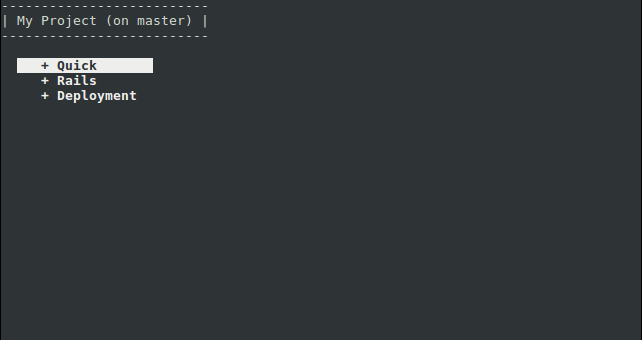
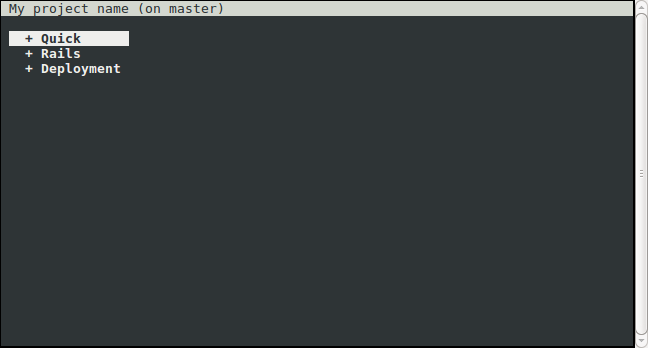
Replace title box with full line header and fix text overflow issues.

Changed region(s): [[0.0, 0.0, 1.0, 1.0]]

diff --git a/lib/handy_toolbox/app.rb b/lib/handy_toolbox/app.rb
@@ -3,11 +3,11 @@ module HandyToolbox
   class App
     attr_reader :title
 
-    def initialize(title: "Tools")
+    def initialize(title: "Tools", default_colors: false)
       @title = title
       @loop = true
       @builder = Menu.new(nil, nil)
-      @screen = Screen.new
+      @screen = Screen.new(default_colors: default_colors)
       @navigator = Navigator.new
       @tool_runner = ToolRunner.new
       @positions = {}
@@ -21,7 +21,7 @@ module HandyToolbox
 
         while @loop
           screen.draw do
-            draw_title
+            screen.header(title)
             draw_tools
           end
           handle_input
@@ -94,17 +94,8 @@ module HandyToolbox
       end
     end
 
-    def draw_title
-      horizontal_line = "-" * (title.size + 4)
-      padded_title = "| #{title} |"
-
-      screen.text_at(0, 0, horizontal_line)
-      screen.text_at(0, 1, padded_title)
-      screen.text_at(0, 2, horizontal_line)
-    end
-
     def draw_tools
-      y = 4
+      y = 2
       longest = find_longest_child_name
       @positions = {}
       current.children.each_with_index do |child|
@@ -119,14 +110,14 @@ module HandyToolbox
             if is_multiline
               Ui.dim do
                 text = format_desc(str[1])
-                screen.text_at(2, y + 1, text)
+                screen.text_at(1, y + 1, text)
               end
               text = format_child_name(child.icon, str[0], longest)
-              screen.text_at(2, y + 2, text)
+              screen.text_at(1, y + 2, text)
               @positions[child.id] = y + 2
             else
               text = format_child_name(child.icon, str, longest)
-              screen.text_at(2, y, text)
+              screen.text_at(1, y, text)
               @positions[child.id] = y
             end
           end
@@ -141,11 +132,11 @@ module HandyToolbox
     end
 
     def format_desc(str)
-      "     # #{str}"
+      "    # #{str}"
     end
 
     def format_child_name(icon, name, max_len)
-      "  #{icon}#{name.ljust(max_len, ' ')}  "
+      " #{icon}#{name.ljust(max_len, ' ')} "
     end
 
     def find_longest_child_name

diff --git a/lib/handy_toolbox/screen.rb b/lib/handy_toolbox/screen.rb
@@ -3,12 +3,18 @@ require 'curses'
 module HandyToolbox
 
   class Screen
+    SPACE = ' '.freeze
 
     attr_reader :scroll
+
+    def initialize(default_colors: false)
+      @default_colors = default_colors
+    end
 
     def init
       Curses.init_screen
       Curses.start_color
+      Curses.use_default_colors if @default_colors
       Ui.hide_cursor
       Curses.cbreak
       Curses.crmode
@@ -30,8 +36,20 @@ module HandyToolbox
       Curses.refresh
     end
 
+    def header(title)
+      title = " #{title}"[0, Curses.cols - 1]
+      title = title.ljust(Curses.cols, SPACE)
+
+      Ui.reverse do
+        if scroll.fits_into_pane?(-scroll.top)
+          Ui.text_at(0, -scroll.top, title)
+        end
+      end
+    end
+
     def text_at(x, y, str)
       if scroll.fits_into_pane?(y)
+        str = str[0, Curses.cols - x - 1]
         Ui.text_at(x, y - scroll.top, str)
       end
       @max_y = y if @max_y < y

diff --git a/lib/handy_toolbox/ui.rb b/lib/handy_toolbox/ui.rb
@@ -31,6 +31,12 @@ module HandyToolbox
       highlight_off if condition
     end
 
+    def self.reverse
+      attr_on Curses::A_REVERSE
+      yield
+      attr_off Curses::A_REVERSE
+    end
+
     def self.dim_on
       attr_on Curses::A_DIM
     end

diff --git a/lib/handy_toolbox/version.rb b/lib/handy_toolbox/version.rb
@@ -1,3 +1,3 @@
 module HandyToolbox
-  VERSION = '0.1.0'
+  VERSION = '0.1.1'
 end

diff --git a/README.md b/README.md
@@ -7,12 +7,14 @@ HandyToolbox is a text based user interface that will help you with every day ta
 
 Gem was built for the Rails apps in mind but can be used standalone as well and not only for Ruby related stuff.
 
+View [changelog](CHANGELOG.md).
+
 ## Installation
 
 Add this line to your application's Gemfile:
 
 ```ruby
-gem 'handy_toolbox'
+gem 'handy_toolbox', require: false
 ```
 
 And then execute:
@@ -39,6 +41,14 @@ include HandyToolbox
 app = App.new(title: 'Project name')
 # your config
 app.run
+```
+
+If you want to use your default terminal colors you can pass extra option to app:
+
+```ruby
+app = App.new(
+  default_colors: true # default is false
+)
 ```
 
 ### Defining your tasks
@@ -178,11 +188,9 @@ home / end - go to first/last item
 
 ![Main menu](promo/1.png?raw=true)
 
-![Quick tasks](promo/2.png?raw=true)
+![Simple tasks](promo/2.png?raw=true)
 
-![Nested menu with loader not executed yet](promo/3.png?raw=true)
-
-![Loaded data from loader](promo/4.png?raw=true)
+![Long tasks](promo/3.png?raw=true)
 
 ## TODO
 

diff --git a/CHANGELOG.md b/CHANGELOG.md
@@ -1,0 +1,8 @@
+### Changelog
+
+#### 0.1.1
+- Replace title box with full line header
+- Fix text overflow issues for long task description
+
+#### 0.1.0
+- Initial release
